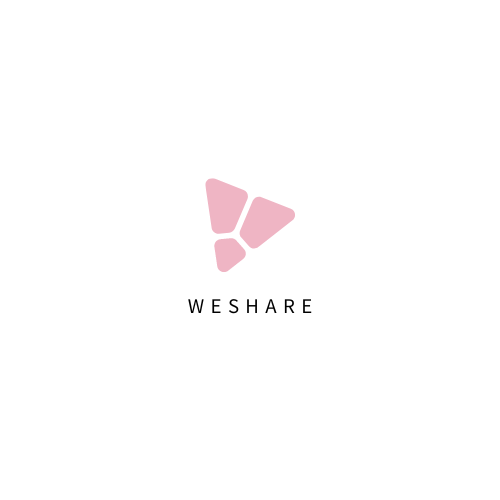
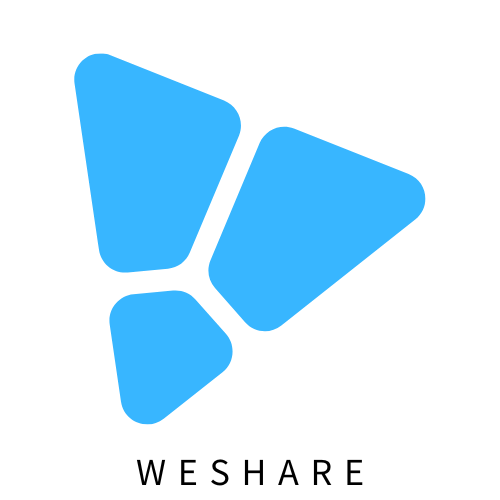
Finished Beautification

diff --git a/Screens/SignUp.js b/Screens/SignUp.js
@@ -1,4 +1,4 @@
-import { Text, View, SafeAreaView,Alert,TextInput, StyleSheet, ImageBackground, Image} from 'react-native'
+import { Text, View, SafeAreaView,Alert,TextInput, StyleSheet, ImageBackground} from 'react-native'
 import React from 'react'
 import colors from '../Helpers/colors';
 import { useState } from 'react';
@@ -6,6 +6,7 @@ import PressableButton from '../Components/PressableButton';
 import { createUserWithEmailAndPassword, getAuth } from "firebase/auth";
 import { auth, database } from "../firebase-files/firebaseSetup";
 import { writeToDB } from '../firebase-files/firebaseHelper';
+import { Image } from 'expo-image';
 
 export default function SignUp({navigation}) {
     const [email, setemail] = useState('');
@@ -103,45 +104,45 @@ export default function SignUp({navigation}) {
               source={require('../assets/loginBackground.jpg')}
               style={styles.imageContainer}
             >
-            <Image
-                source={require('../assets/WESHARE.png')}
-                styles={colors.logo}
-            />
-            {/*<Text style={colors.text}>Email Address</Text>*/}
-            <TextInput 
-            value={email} 
-            style={colors.input} 
-            placeholder="Email"
-            onChangeText={(text) => {
-                setemail(text);
-            }} 
-            />
-            {emailError ? <Text style={colors.errorText}>{emailError}</Text> : null}
+                <Image
+                    source={require('../assets/WESHARE.png')}
+                    style={colors.logo}
+                />
+                {/*<Text style={colors.text}>Email Address</Text>*/}
+                <TextInput 
+                value={email} 
+                style={colors.input} 
+                placeholder="Email"
+                onChangeText={(text) => {
+                    setemail(text);
+                }} 
+                />
+                {emailError ? <Text style={colors.errorText}>{emailError}</Text> : null}
 
-            {/*<Text style={colors.text}>Password</Text>*/}
-            <TextInput
-                style={colors.input}
-                secureTextEntry={true}
-                placeholder="Password"
-                value={password}
-                onChangeText={(changedText) => {
-                setPassword(changedText);
-                }}
-            />
+                {/*<Text style={colors.text}>Password</Text>*/}
+                <TextInput
+                    style={colors.input}
+                    secureTextEntry={true}
+                    placeholder="Password"
+                    value={password}
+                    onChangeText={(changedText) => {
+                    setPassword(changedText);
+                    }}
+                />
 
-            {/* {PasswordError ? <Text style={colors.errorText}>{PasswordError}</Text> : null} */}
+                {/* {PasswordError ? <Text style={colors.errorText}>{PasswordError}</Text> : null} */}
 
-            {/*<Text style={colors.text}>Confirm Password</Text>*/}
-            <TextInput
-                style={colors.input}
-                secureTextEntry={true}
-                placeholder="Confirm Password"
-                value={confirmPassword}
-                onChangeText={(changedText) => {
-                setConfirmPassword(changedText);
-                }}
-            />
-            
+                {/*<Text style={colors.text}>Confirm Password</Text>*/}
+                <TextInput
+                    style={colors.input}
+                    secureTextEntry={true}
+                    placeholder="Confirm Password"
+                    value={confirmPassword}
+                    onChangeText={(changedText) => {
+                    setConfirmPassword(changedText);
+                    }}
+                />
+                
                 <View style={colors.buttonView}>
                     <PressableButton customStyle={colors.login} onPressFunction={handleSignup}>
                         <Text style={colors.buttonText}>Sign Up</Text>

diff --git a/Screens/Start.js b/Screens/Start.js
@@ -2,6 +2,7 @@ import { StyleSheet, Text, View ,SafeAreaView,ImageBackground} from 'react-nativ
 import React from 'react'
 import PressableButton from '../Components/PressableButton'
 import colors from "../Helpers/colors"
+import { Image } from 'expo-image';
 
 export default function Start({navigation}) {
 
@@ -10,11 +11,19 @@ export default function Start({navigation}) {
     }
 
   return (
-    <ImageBackground source={require("../assets/background.jpeg")} style={styles.container}>
+    <ImageBackground source={require("../assets/loginBackground.jpg")} style={styles.container}>
     <View style={styles.textContainer}>
-        <Text style={styles.titleText}>Record</Text>
-        <Text style={styles.titleText}>Share</Text>
-        <Text style={styles.titleText}>Enjoy</Text>
+         <Image
+            source={require('../assets/WESHARE.png')}
+            style={{
+                width: 200,
+                height: 200,
+                marginBottom: 30,
+            }}
+        />
+        {/*<Text style={styles.titleText}>Record</Text>*/}
+        {/*<Text style={styles.titleText}>Share</Text>*/}
+        {/*<Text style={styles.titleText}>Enjoy</Text>*/}
     </View>
 
     <View style={styles.buttonView}>
@@ -49,15 +58,17 @@ const styles = StyleSheet.create({
   },
   startButton: {
       backgroundColor: "mediumturquoise", 
+      justifyContent: 'center',
       paddingVertical: 12,
       paddingHorizontal: 25,
       borderRadius: 25,
-      shadowColor: "#000",
-      width:200,
+      width: 360,
       height:50,
+      marginTop:20,
+      shadowColor: "#000",
       shadowOffset: {
-          width: 10,
-          height: 7,
+          width: 2,
+          height: 2,
       },
       shadowOpacity: 0.25,
       shadowRadius: 3.84,

diff --git a/Screens/Login.js b/Screens/Login.js
@@ -5,6 +5,7 @@ import colors from '../Helpers/colors';
 import PressableButton from '../Components/PressableButton';
 import { signInWithEmailAndPassword } from "firebase/auth";
 import { auth } from "../firebase-files/firebaseSetup";
+import { Image } from 'expo-image';
 
 export default function Login({navigation}) {
     const [email, setemail] = useState('');
@@ -58,6 +59,10 @@ export default function Login({navigation}) {
               source={require('../assets/loginBackground.jpg')}
               style={styles.imageContainer}
             >
+                <Image
+                    source={require('../assets/WESHARE.png')}
+                    style={colors.logo}
+                />
             {/*<Text style={colors.text}>Email Address</Text>*/}
             <TextInput 
             value={email} 

diff --git a/Helpers/colors.js b/Helpers/colors.js
@@ -86,8 +86,9 @@ const colors = StyleSheet.create({
         alignItems: 'center',
     },
     logo: {
-        width: 100,
-        height: 100,
+        width: 150,
+        height: 150,
+        marginBottom: 50,
     },  
     signup: {
        
